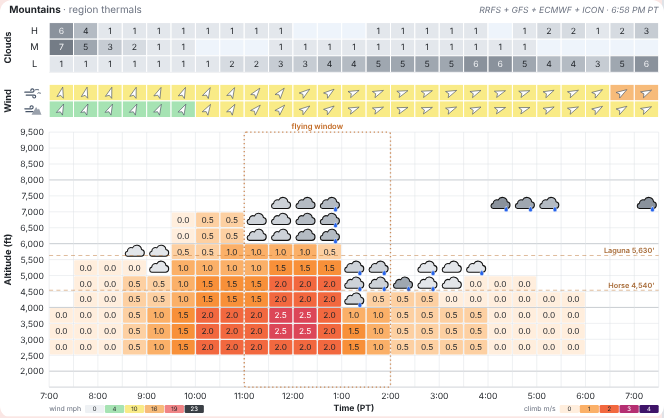
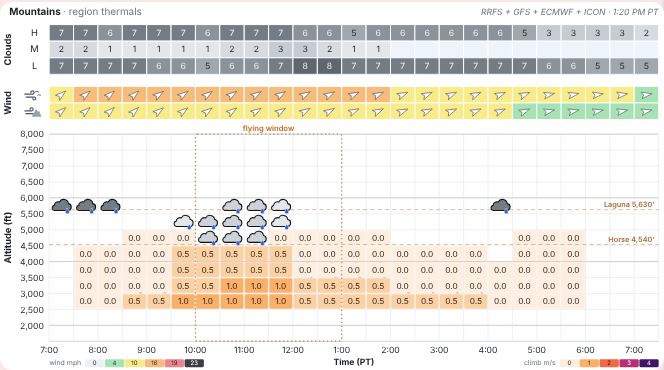
How page: SkyGram column widths and the night shade, new SkyGram picture
Claude-Session: https://claude.ai/code/session_01RhUhxHFBdny7cHvv8aMQgT

diff --git a/how.html b/how.html
@@ -145,8 +145,8 @@ figure.site.wide { grid-column: span 2; } figure.site.wide svg { overflow: hidde
 <div class="tilefig chartfig"><img src="assets/how/skygram.png" width="332" alt="The SkyGram for Laguna on a day with a front coming in"></div>
 <table class="rules facts"><tr><th>Verdict</th><td>the radar's verdict for each hour.</td></tr>
 <tr><th>Clouds</th><td>high (H), middle (M) and low (L) cloud in eighths of the sky.</td></tr>
-<tr><th>Weather</th><td>sun, some clouds, overcast, rain or thunderstorms; a moon at night.</td></tr>
-<tr><th>Lift</th><td>columns from the ground to the top of the lift, in 500 ft steps, by climb in m/s: <b class="lk" style="--c:#fdd0a2">0.5</b> <b class="lk" style="--c:#fbb068">1</b> <b class="lk" style="--c:#f89039">1.5</b> <b class="lk w" style="--c:#f2683f">2</b> <b class="lk w" style="--c:#dc4658">2.5</b> <b class="lk w" style="--c:#b52f72">3</b> <b class="lk w" style="--c:#7a2081">3.5</b> <b class="lk w" style="--c:#3f1468">4</b></td></tr>
+<tr><th>Weather</th><td>sun, some clouds, overcast, rain or thunderstorms; a moon at night, and those hours lightly shaded.</td></tr>
+<tr><th>Lift</th><td>columns from the ground to the top of the lift, in 500 ft steps, slim up to 1 m/s, wider at 1.5, full from 2. By climb in m/s: <b class="lk" style="--c:#fdd0a2">0.5</b> <b class="lk" style="--c:#fbb068">1</b> <b class="lk" style="--c:#f89039">1.5</b> <b class="lk w" style="--c:#f2683f">2</b> <b class="lk w" style="--c:#dc4658">2.5</b> <b class="lk w" style="--c:#b52f72">3</b> <b class="lk w" style="--c:#7a2081">3.5</b> <b class="lk w" style="--c:#3f1468">4</b></td></tr>
 <tr><th>Cumulus &amp; inversions</th><td>grey bars: cumulus from base to top, wider and darker with more of them. Pink: an inversion that caps or weakens the thermals.</td></tr>
 <tr><th>Wind</th><td>an arrow every 1,000 ft pointing downwind; the lowest ones are the wind at the landing fields and in the valleys. White under 4 mph, <b class="c-g">green</b> 4–9, <b class="c-y">yellow</b> 10–15, <b class="c-o">orange</b> 16–18, <b class="c-r">red</b> 19–22, <b>black</b> 23 and up. The inside is the typical wind across the area, the outline the windiest spot.</td></tr>
 <tr><th>Marks</th><td>dashed lines at the launch heights, the ground in sand.</td></tr>
